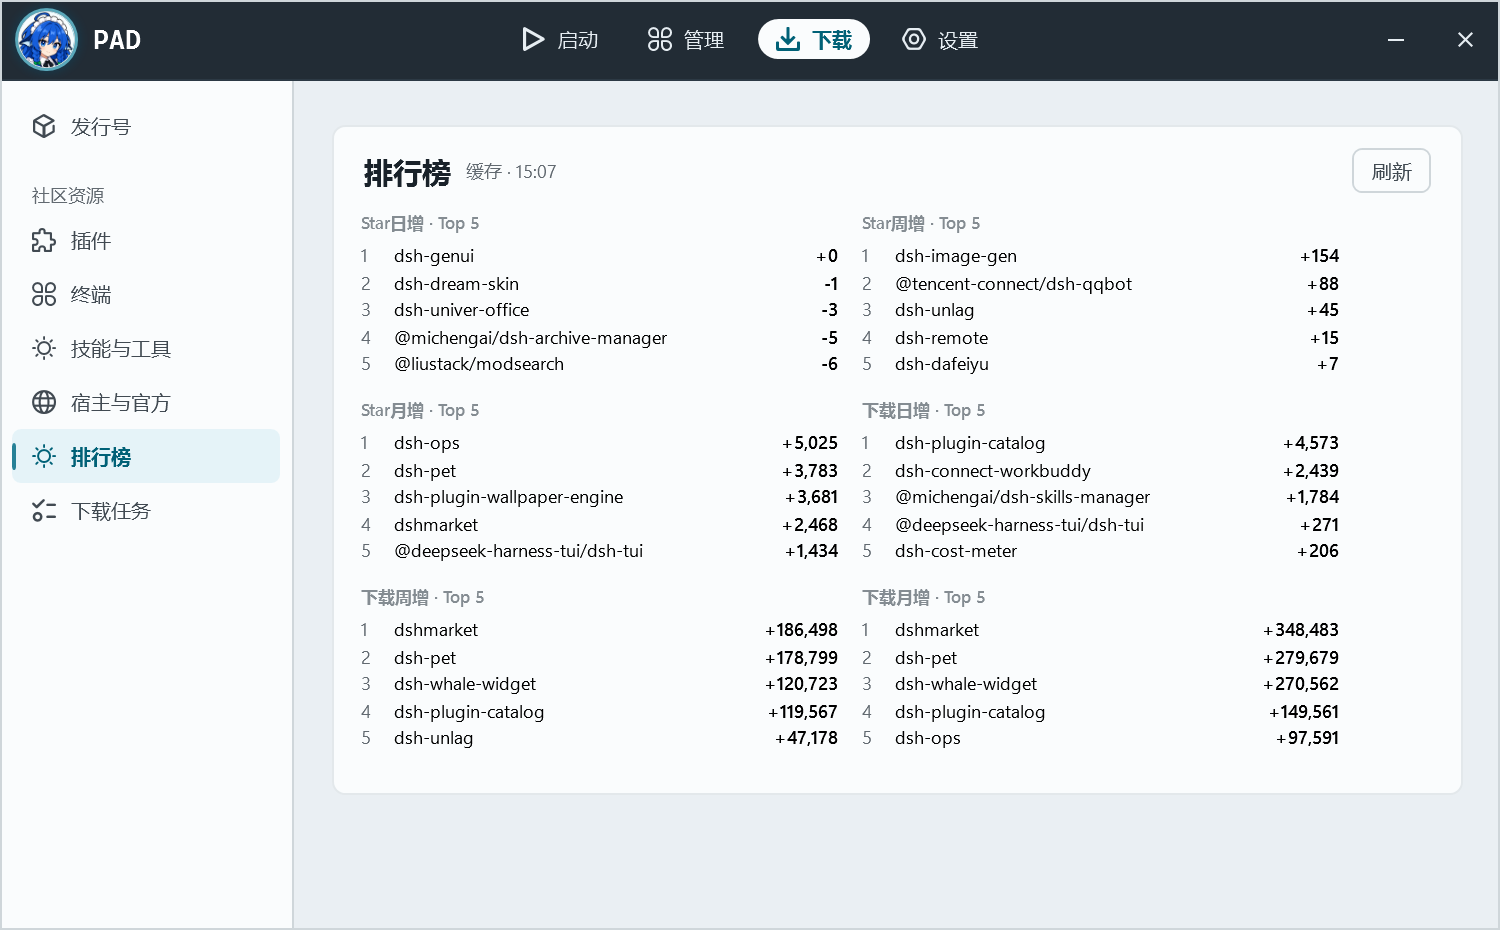
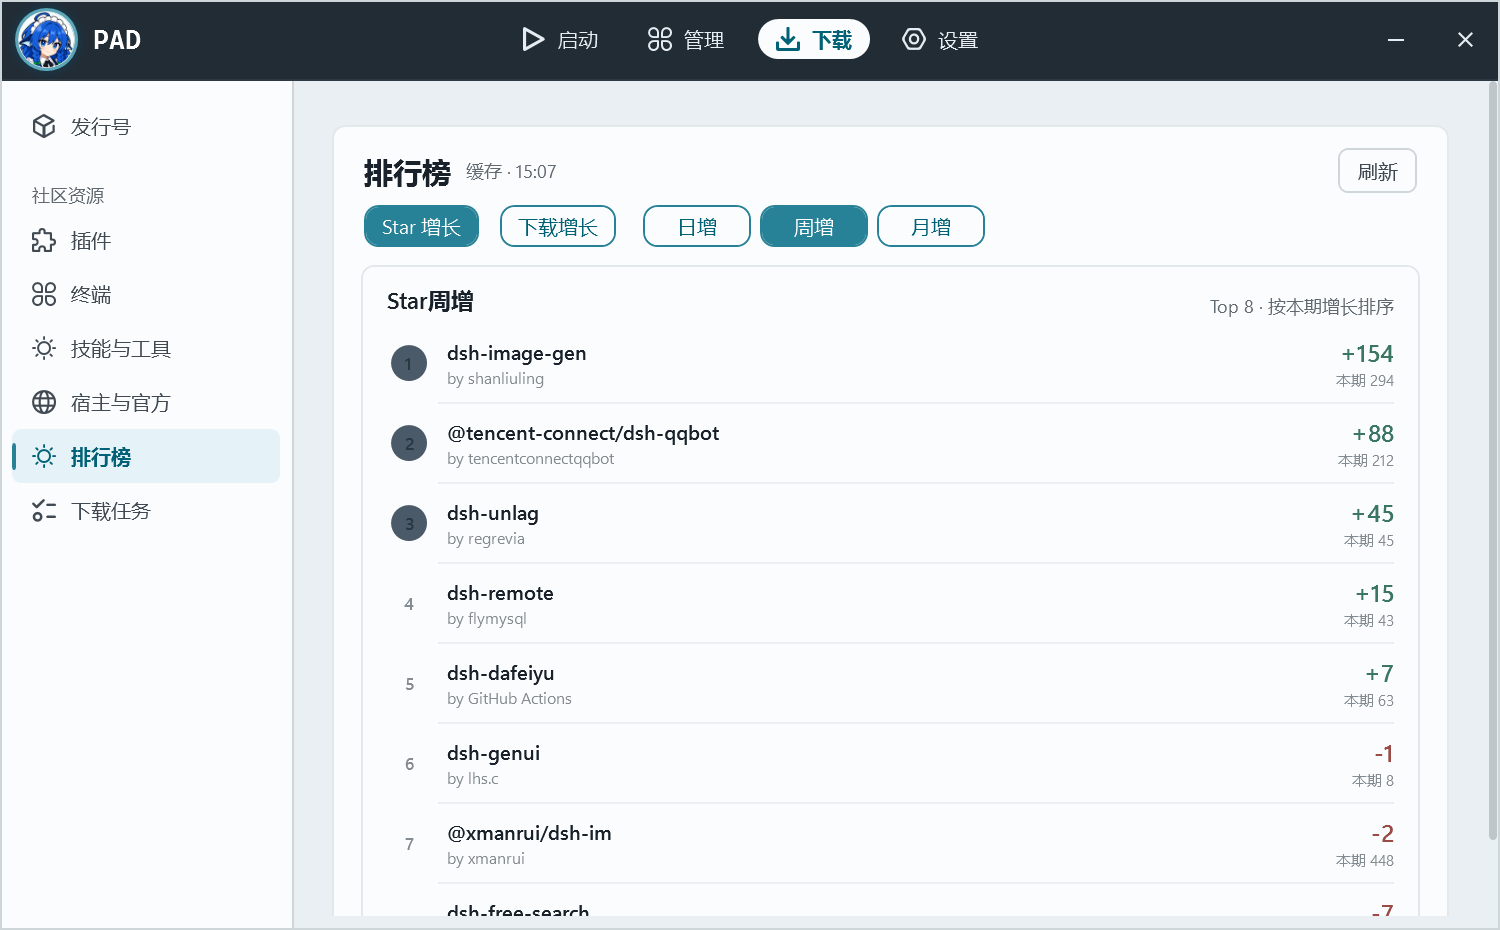
PAD 排行榜 UI 重做：Star/下载 × 日/周/月 切换 + 名次徽章/涨跌配色/Top 8 列表

diff --git a/agent-pack-dsh/pad/Views/DownloadView.xaml b/agent-pack-dsh/pad/Views/DownloadView.xaml
@@ -511,10 +511,10 @@
             </StackPanel>
           </Border>
 
-          <Border x:Name="RankingCard" Style="{StaticResource Slab}" Padding="18,14,18,16"
+          <Border x:Name="RankingCard" Style="{StaticResource Slab}" Padding="18,14,18,14"
                   Visibility="Collapsed" Margin="0,4,0,0">
             <StackPanel>
-              <Grid Margin="2,0,2,10">
+              <Grid Margin="2,0,2,8">
                 <StackPanel Orientation="Horizontal" VerticalAlignment="Center">
                   <TextBlock Text="排行榜" Style="{StaticResource SectionTitle}" VerticalAlignment="Center" />
                   <TextBlock x:Name="RankingNote" Style="{StaticResource Muted}" Margin="10,0,0,0"
@@ -524,6 +524,20 @@
                         HorizontalAlignment="Right" VerticalAlignment="Center"
                         Click="RankingRefresh_Click" />
               </Grid>
+              <StackPanel Orientation="Horizontal" Margin="2,0,0,12">
+                <RadioButton x:Name="RankStar" Style="{StaticResource FilterTab}" Content="Star 增长"
+                             GroupName="rankMetric" IsChecked="True" Checked="RankToggle_Changed" />
+                <RadioButton x:Name="RankDownloads" Style="{StaticResource FilterTab}" Content="下载增长"
+                             GroupName="rankMetric" Margin="6,0,0,0" Checked="RankToggle_Changed" />
+                <RadioButton x:Name="RankDay" Style="{StaticResource FilterTab}" Content="日增"
+                             GroupName="rankPeriod" Margin="18,0,0,0"
+                             Checked="RankToggle_Changed" />
+                <RadioButton x:Name="RankWeek" Style="{StaticResource FilterTab}" Content="周增"
+                             GroupName="rankPeriod" IsChecked="True" Margin="6,0,0,0"
+                             Checked="RankToggle_Changed" />
+                <RadioButton x:Name="RankMonth" Style="{StaticResource FilterTab}" Content="月增"
+                             GroupName="rankPeriod" Margin="6,0,0,0" Checked="RankToggle_Changed" />
+              </StackPanel>
               <StackPanel x:Name="RankingHost" />
             </StackPanel>
           </Border>

diff --git a/agent-pack-dsh/pad/Views/DownloadView.xaml.cs b/agent-pack-dsh/pad/Views/DownloadView.xaml.cs
@@ -24,6 +24,9 @@ public partial class DownloadView : UserControl, IRefreshable
     int _storePageSizeUsed = 20;
     bool _rankingLoaded;
     bool _rankingBusy;
+    Leaderboards? _rankBoards;
+    string _rankMetric = "stars";
+    int _rankPeriod = 7;
     DispatcherTimer? _storeResizeTimer;
 
     void HookResize()
@@ -883,6 +886,7 @@ public partial class DownloadView : UserControl, IRefreshable
         {
             var boards = await MarketMetrics.GetAsync(_state.Launcher, force,
                 new Progress<string>(s => RankingNote.Text = s), CancellationToken.None);
+            _rankBoards = boards;
             PaintRanking(boards);
         }
         catch (Exception ex)
@@ -901,77 +905,154 @@ public partial class DownloadView : UserControl, IRefreshable
         _ = LoadRanking(true);
     }
 
+    void RankToggle_Changed(object sender, RoutedEventArgs e)
+    {
+        if (sender is not RadioButton { IsChecked: true } rb) return;
+        switch (rb.Name)
+        {
+            case nameof(RankStar): _rankMetric = "stars"; break;
+            case nameof(RankDownloads): _rankMetric = "downloads"; break;
+            case nameof(RankDay): _rankPeriod = 1; break;
+            case nameof(RankWeek): _rankPeriod = 7; break;
+            case nameof(RankMonth): _rankPeriod = 30; break;
+        }
+        if (_rankBoards is not null) PaintRanking(_rankBoards);
+    }
+
     void PaintRanking(Leaderboards boards)
     {
+        _rankBoards = boards;
         RankingHost.Children.Clear();
-        RankingNote.Text = boards.FromCache ? $"缓存 · {boards.GeneratedText}" : $"刚刚更新 · {boards.GeneratedText}";
+        RankingNote.Text = boards.FromCache ? $"缓存 · {boards.GeneratedText}" : $"更新 · {boards.GeneratedText}";
         RankingNote.ToolTip = boards.Note;
 
-        // 两列小榜：Star 三档在左/上，下载三档在右/下，一屏能同时看到。
-        var wrap = new WrapPanel { Orientation = Orientation.Horizontal };
-        foreach (var board in boards.Boards)
+        var periodKey = _rankPeriod switch { 1 => "day", 7 => "week", _ => "month" };
+        var board = boards.Boards.FirstOrDefault(b => b.Key == $"{_rankMetric}-{periodKey}");
+        if (board is null || board.Rows.Count == 0)
         {
-            var box = new StackPanel { Width = 318, Margin = new Thickness(0, 2, 16, 12) };
-            box.Children.Add(new TextBlock
-            {
-                Text = $"{board.Label} · Top {Math.Min(5, board.Rows.Count)}",
-                Style = (Style)FindResource("Label"),
-                Margin = new Thickness(0, 0, 0, 6),
-            });
-            foreach (var row in board.Rows.Take(5)) box.Children.Add(PeakRow(row));
-            wrap.Children.Add(box);
-        }
-        RankingHost.Children.Add(wrap);
-
-        if (boards.Boards.All(b => b.Rows.Count == 0))
             RankingHost.Children.Add(new TextBlock
             {
-                Text = "暂时拉不到增长数据（网络或 GitHub 限流）。",
-                Style = (Style)FindResource("Muted"),
-            });
-        else if (boards.Boards.Where(b => b.Key.StartsWith("stars-", StringComparison.Ordinal)).All(b => b.Rows.Count == 0))
-            RankingHost.Children.Add(new TextBlock
-            {
-                Text = "Star 榜需要 GitHub API（匿名 60 次/小时）；可设环境变量 PAD_GITHUB_TOKEN 提高配额。",
+                Text = _rankMetric == "stars"
+                    ? "Star 榜暂时没有数据（GitHub API 匿名限流 60 次/小时）；可设环境变量 PAD_GITHUB_TOKEN 提高配额，或等配额恢复后点刷新。"
+                    : "下载榜暂时没有数据（npm 统计不可达）。点刷新重试。",
                 Style = (Style)FindResource("Muted"),
                 TextWrapping = TextWrapping.Wrap,
-                Margin = new Thickness(0, 12, 0, 0),
+                Margin = new Thickness(2, 6, 2, 6),
             });
+            return;
+        }
 
-        FrameworkElement PeakRow(MetricRow row)
+        var card = new Border
         {
-            var grid = new Grid { Margin = new Thickness(0, 1, 0, 1) };
-            grid.ColumnDefinitions.Add(new ColumnDefinition { Width = new GridLength(22) });
+            Style = (Style)FindResource("Card"),
+            Background = (Brush)FindResource("BgCard"),
+            Padding = new Thickness(16, 12, 16, 6),
+        };
+        var stack = new StackPanel();
+        var head = new Grid { Margin = new Thickness(0, 0, 0, 2) };
+        var title = new TextBlock
+        {
+            Text = board.Label,
+            Style = (Style)FindResource("CardTitle"),
+            VerticalAlignment = VerticalAlignment.Center,
+        };
+        var note = new TextBlock
+        {
+            Text = $"Top {Math.Min(8, board.Rows.Count)} · 按本期增长排序",
+            Style = (Style)FindResource("Muted"),
+            FontSize = (double)FindResource("FsSmall"),
+            HorizontalAlignment = HorizontalAlignment.Right,
+            VerticalAlignment = VerticalAlignment.Center,
+        };
+        head.Children.Add(title);
+        head.Children.Add(note);
+        stack.Children.Add(head);
+
+        var shown = board.Rows.Take(8).ToList();
+        for (var i = 0; i < shown.Count; i++)
+        {
+            stack.Children.Add(RankRow(shown[i]));
+            if (i < shown.Count - 1)
+                stack.Children.Add(new Border
+                {
+                    Height = 1,
+                    Background = (Brush)FindResource("BgPage"),
+                    Margin = new Thickness(34, 4, 0, 4),
+                });
+        }
+        card.Child = stack;
+        RankingHost.Children.Add(card);
+
+        FrameworkElement RankRow(MetricRow row)
+        {
+            var grid = new Grid { Margin = new Thickness(0, 4, 0, 4) };
+            grid.ColumnDefinitions.Add(new ColumnDefinition { Width = new GridLength(30) });
             grid.ColumnDefinitions.Add(new ColumnDefinition());
             grid.ColumnDefinitions.Add(new ColumnDefinition { Width = GridLength.Auto });
-            var rank = new TextBlock
+
+            var badge = new Border
             {
-                Text = row.Rank.ToString(),
-                Style = (Style)FindResource("Muted"),
+                Width = 24,
+                Height = 24,
+                CornerRadius = new CornerRadius(12),
+                Background = row.Rank <= 3 ? (Brush)FindResource("Accent") : Brushes.Transparent,
                 VerticalAlignment = VerticalAlignment.Center,
+                Child = new TextBlock
+                {
+                    Text = row.Rank.ToString(),
+                    FontSize = 11,
+                    FontWeight = FontWeights.SemiBold,
+                    HorizontalAlignment = HorizontalAlignment.Center,
+                    VerticalAlignment = VerticalAlignment.Center,
+                    Foreground = row.Rank <= 3 ? (Brush)FindResource("AccentText") : (Brush)FindResource("TextMuted"),
+                },
             };
-            Grid.SetColumn(rank, 0);
-            var name = new TextBlock
+            Grid.SetColumn(badge, 0);
+
+            var nameStack = new StackPanel { VerticalAlignment = VerticalAlignment.Center, Margin = new Thickness(10, 0, 10, 0) };
+            nameStack.Children.Add(new TextBlock
             {
                 Text = row.Name,
-                VerticalAlignment = VerticalAlignment.Center,
+                FontSize = 13,
+                FontWeight = FontWeights.SemiBold,
+                Foreground = (Brush)FindResource("TextPrimary"),
                 TextTrimming = TextTrimming.CharacterEllipsis,
-                ToolTip = (row.Description.Length > 0 ? row.Description + "\n" : "")
-                          + $"本期 {row.TotalText} · 增长 {row.GrowthText}",
-            };
-            Grid.SetColumn(name, 1);
-            var grow = new TextBlock
+                ToolTip = row.Description,
+            });
+            nameStack.Children.Add(new TextBlock
+            {
+                Text = string.IsNullOrWhiteSpace(row.Publisher) ? "npm" : "by " + row.Publisher,
+                FontSize = 10.5,
+                Foreground = (Brush)FindResource("TextMuted"),
+                Margin = new Thickness(0, 1, 0, 0),
+                TextTrimming = TextTrimming.CharacterEllipsis,
+            });
+            Grid.SetColumn(nameStack, 1);
+
+            var right = new StackPanel { VerticalAlignment = VerticalAlignment.Center, HorizontalAlignment = HorizontalAlignment.Right };
+            right.Children.Add(new TextBlock
             {
                 Text = row.GrowthText,
-                VerticalAlignment = VerticalAlignment.Center,
+                FontSize = 16,
                 FontWeight = FontWeights.SemiBold,
-                Margin = new Thickness(10, 0, 0, 0),
-                ToolTip = "本期 " + row.TotalText,
-            };
-            Grid.SetColumn(grow, 2);
-            grid.Children.Add(rank);
-            grid.Children.Add(name);
-            grid.Children.Add(grow);
+                Foreground = row.Growth > 0 ? (Brush)FindResource("Success")
+                    : row.Growth < 0 ? (Brush)FindResource("Danger")
+                    : (Brush)FindResource("TextMuted"),
+                HorizontalAlignment = HorizontalAlignment.Right,
+            });
+            right.Children.Add(new TextBlock
+            {
+                Text = "本期 " + row.TotalText,
+                FontSize = 10,
+                Foreground = (Brush)FindResource("TextMuted"),
+                HorizontalAlignment = HorizontalAlignment.Right,
+                Margin = new Thickness(0, 1, 0, 0),
+            });
+            Grid.SetColumn(right, 2);
+
+            grid.Children.Add(badge);
+            grid.Children.Add(nameStack);
+            grid.Children.Add(right);
             return grid;
         }
     }

diff --git a/EVIDENCE/D109-market-speed-leaderboards/README.md b/EVIDENCE/D109-market-speed-leaderboards/README.md
@@ -31,7 +31,7 @@
 
 入口：
 
-- UI：下载 → 左侧「排行榜」（6 个小榜，两列布局，各 Top 5）
+- UI：下载 → 左侧「排行榜」：Star/下载 切换 × 日/周/月 切换，Top 8 榜单（默认 Star 周增）
 - CLI：`pad cli market ranking [--refresh] [--out ranking.json]`（`--out` 输出 JSON）
 
 真实数据实测（2026-11-02 15:07，候选 30，Star 30/30 全部取到）：
